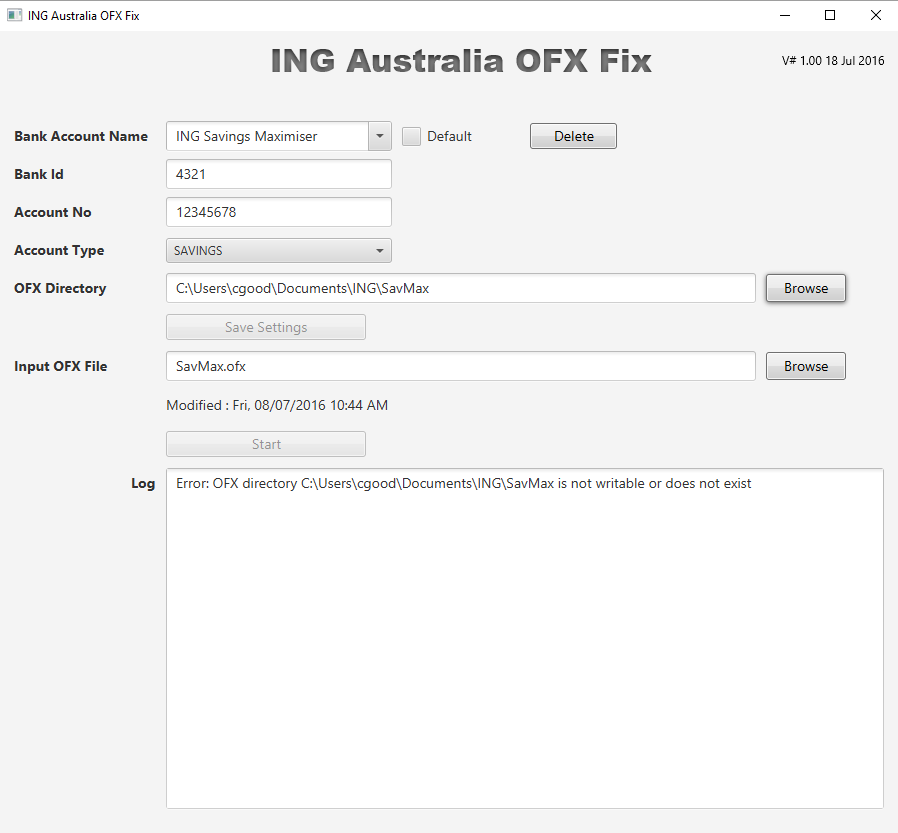
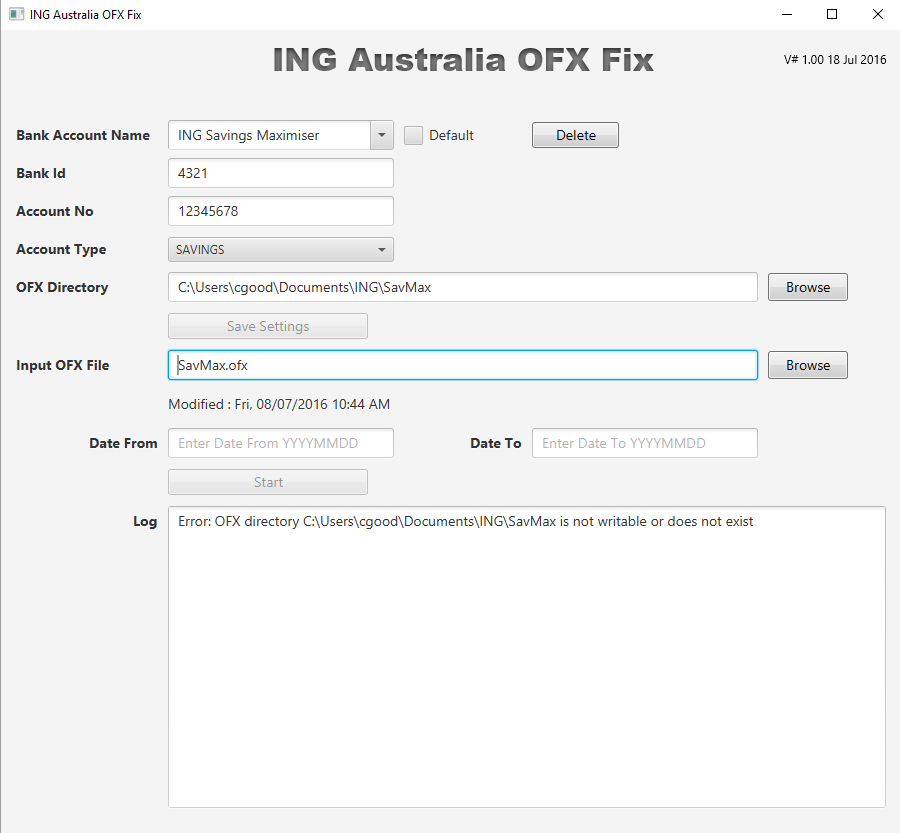
Update IngAusOfxFix.PNG and README.md

diff --git a/README.md b/README.md
@@ -8,8 +8,8 @@ to view https://github.com/goodvibes2/IngAusOfxFixWin/blob/master/README.md.
 The last known IngAusOfxFix stable series is the 1.0x series.
 
 Please see:
-  ChangeLog.txt for release details
-  LICENSE.txt for GPLv3 license details
+  - ChangeLog.txt for release details
+  - LICENSE.txt for GPLv3 license details
 
 ## Table of Contents ##
 
@@ -29,7 +29,7 @@ Please see:
 
 IngAusOfxFix is an application to automate the repetitive task of editing
 the file of bank transactions downloaded in OFX format from bank ING Australia
-so that they may be imported to GnuCash.
+so that they may be imported into GnuCash.
 
 This application corrects 2 problems in the downloaded .ofx file:
   1. Add missing BANKACCTFROM xml entity before BANKTRANLIST.
@@ -65,11 +65,11 @@ but this has not (yet) been tested.
 - An easy-to-use interface.
 After downloading a .ofx file from the ING website, you just start IngAusOfxFix,
 select the saved bank account configuration using the Bank Account Name
-combobox, select different options if required (not usually required), select
-the downloaded .ofx file and click the Start button. IngAusOfxFix processes the
-input file and creates a new corrected file with the name of the original file
-but with the filename suffixed with 'New' before the .ofx extension.
-For example
+combobox, select any different options if required (such as the date range),
+select the downloaded .ofx file and click the Start button. IngAusOfxFix
+processes the input file and creates a new corrected file with the name of the
+original file but with the filename suffixed with 'New' before the .ofx
+extension. For example
 ```
   Original file: MyFile.ofx
   New file:      MyFileNew.ofx
@@ -124,12 +124,12 @@ problems as it checks that
      the correct GnuCash account the first time. It is possible, but fiddly, to
      correct if you get it wrong as it currently (GnuCash 2.6.13) involves
      either restoring your GnuCash data file, or manually editing it, or using
-     a perl script to edit it.
-    (see Bayes at http://wiki.gnucash.org/wiki/Published_tools)
+     a perl script to edit it (see Bayes at
+     http://wiki.gnucash.org/wiki/Published_tools).
 
   4. **Account Type**, as defined by the OFX specification:
      ```
-          "CHECKING", "CREDITLINE", "MONEYMRKT" or "SAVINGS"
+          CHECKING, CREDITLINE, MONEYMRKT or SAVINGS
      ```
 
   5. **OFX Directory**.
@@ -137,15 +137,10 @@ problems as it checks that
      account. This can either be typed in or selected using the **Browse**
      button.
 
-  After valid entry of
-    - account name
-    - account id
-    - account no
-    - account type
-    - OFX directory
-  the **Save Settings** button will be enabled, which when clicked,
-  will save the 5 above entries, and the name of the default bank account,
-  for all bank accounts, in file
+  After valid entry of account name, account id, account no, account type and
+  OFX directory, the **Save Settings** button will be enabled, which when
+  clicked, will save these entries, and the name of the default bank
+  account, for all bank accounts, in file
   ```
     GNU/Linux: /home/[USER_NAME]/.IngAusOfxFix/defaultProperties
     Windows: C:\Users\USER_NAME]\.IngAusOfxFix/defaultProperties
@@ -224,15 +219,15 @@ There are 2 ways to use this application
   ```
     https://github.com/goodvibes2/IngAusOfxFixWin
   ```
-    which is the project for Microsoft Windows using
-    Oracle Java 8, and netbeans IDE 8.0
+  which is the project for Microsoft Windows using
+  Oracle Java 8, and netbeans IDE 8.0
 
   AND
   ```
     https://github.com/goodvibes2/IngAusOfxFixLinux
   ```
-    which is the project for GNU/Linux Ubuntu 16.04 using
-    Java OpenJDK 8, OpenJFX, and netbeans IDE 8.1
+  which is the project for GNU/Linux Ubuntu 16.04 using
+  Java OpenJDK 8, OpenJFX, and netbeans IDE 8.1
 
 The java source files in both the above projects should be identical
 and the dist/IngAusOfxFix.jar files in both, being Java bytecode, should
